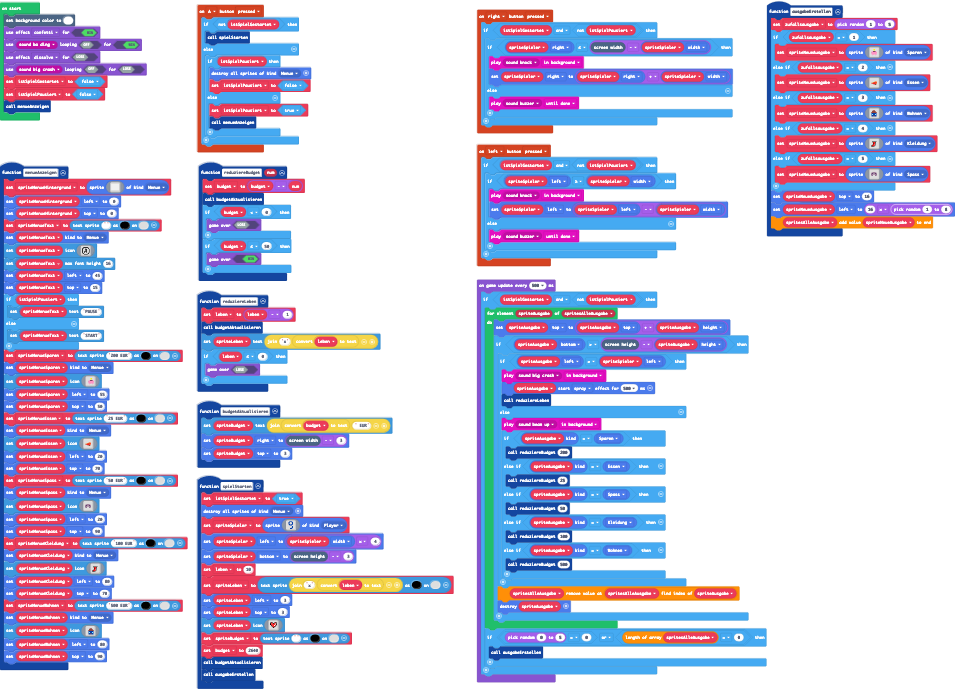
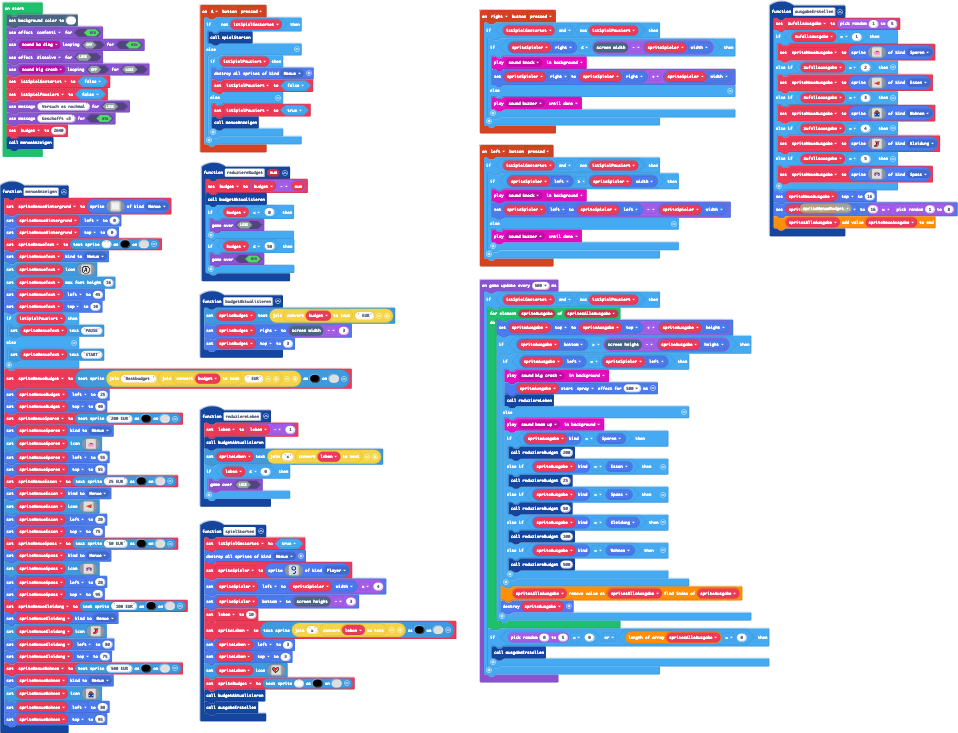
v3

diff --git a/main.ts b/main.ts
@@ -66,7 +66,6 @@ function spielStarten () {
     spriteLeben.top = 3
     spriteLeben.setIcon(assets.image`leben`)
     spriteBudget = textsprite.create("", 0, 15)
-    budget = 2640
     budgetAktualisieren()
     ausgabeErstellen()
 }
@@ -89,37 +88,40 @@ function menueAnzeigen () {
     spriteMenueText.setIcon(assets.image`pressA`)
     spriteMenueText.setMaxFontHeight(16)
     spriteMenueText.left = 45
-    spriteMenueText.top = 15
+    spriteMenueText.top = 10
     if (istSpielPausiert) {
         spriteMenueText.setText("PAUSE")
     } else {
         spriteMenueText.setText("START")
     }
+    spriteMenueBudget = textsprite.create("Restbudget " + ("" + convertToText(budget) + " EUR"), 0, 15)
+    spriteMenueBudget.left = 25
+    spriteMenueBudget.top = 40
     spriteMenueSparen = textsprite.create("200 EUR", 0, 15)
     spriteMenueSparen.setKind(SpriteKind.Menue)
     spriteMenueSparen.setIcon(assets.image`sparen`)
     spriteMenueSparen.left = 55
-    spriteMenueSparen.top = 50
+    spriteMenueSparen.top = 55
     spriteMenueEssen = textsprite.create("25 EUR", 0, 15)
     spriteMenueEssen.setKind(SpriteKind.Menue)
     spriteMenueEssen.setIcon(assets.image`essen`)
     spriteMenueEssen.left = 20
-    spriteMenueEssen.top = 70
+    spriteMenueEssen.top = 75
     spriteMenueSpass = textsprite.create("50 EUR", 0, 15)
     spriteMenueSpass.setKind(SpriteKind.Menue)
     spriteMenueSpass.setIcon(assets.image`spass`)
     spriteMenueSpass.left = 20
-    spriteMenueSpass.top = 90
+    spriteMenueSpass.top = 95
     spriteMenueKleidung = textsprite.create("100 EUR", 0, 15)
     spriteMenueKleidung.setKind(SpriteKind.Menue)
     spriteMenueKleidung.setIcon(assets.image`kleidung`)
     spriteMenueKleidung.left = 80
-    spriteMenueKleidung.top = 70
+    spriteMenueKleidung.top = 75
     spriteMenueWohnen = textsprite.create("500 EUR", 0, 15)
     spriteMenueWohnen.setKind(SpriteKind.Menue)
     spriteMenueWohnen.setIcon(assets.image`wohnen`)
     spriteMenueWohnen.left = 80
-    spriteMenueWohnen.top = 90
+    spriteMenueWohnen.top = 95
 }
 function reduziereBudget (num: number) {
     budget = budget - num
@@ -141,9 +143,9 @@ let spriteMenueKleidung: TextSprite = null
 let spriteMenueSpass: TextSprite = null
 let spriteMenueEssen: TextSprite = null
 let spriteMenueSparen: TextSprite = null
+let spriteMenueBudget: TextSprite = null
 let spriteMenueText: TextSprite = null
 let spriteMenueHintergrund: Sprite = null
-let budget = 0
 let spriteBudget: TextSprite = null
 let spriteLeben: TextSprite = null
 let leben = 0
@@ -151,6 +153,7 @@ let spriteSpieler: Sprite = null
 let spritesAlleAusgabe: Sprite[] = []
 let spriteNeueAusgabe: Sprite = null
 let zufallsausgabe = 0
+let budget = 0
 let istSpielPausiert = false
 let istSpielGestartet = false
 scene.setBackgroundColor(1)
@@ -160,6 +163,9 @@ game.setGameOverEffect(false, effects.dissolve)
 game.setGameOverPlayable(false, music.melodyPlayable(music.bigCrash), false)
 istSpielGestartet = false
 istSpielPausiert = false
+game.setGameOverMessage(false, "Versuch es nochmal")
+game.setGameOverMessage(true, "Geschafft <3")
+budget = 2640
 menueAnzeigen()
 game.onUpdateInterval(500, function () {
     if (istSpielGestartet && !(istSpielPausiert)) {
